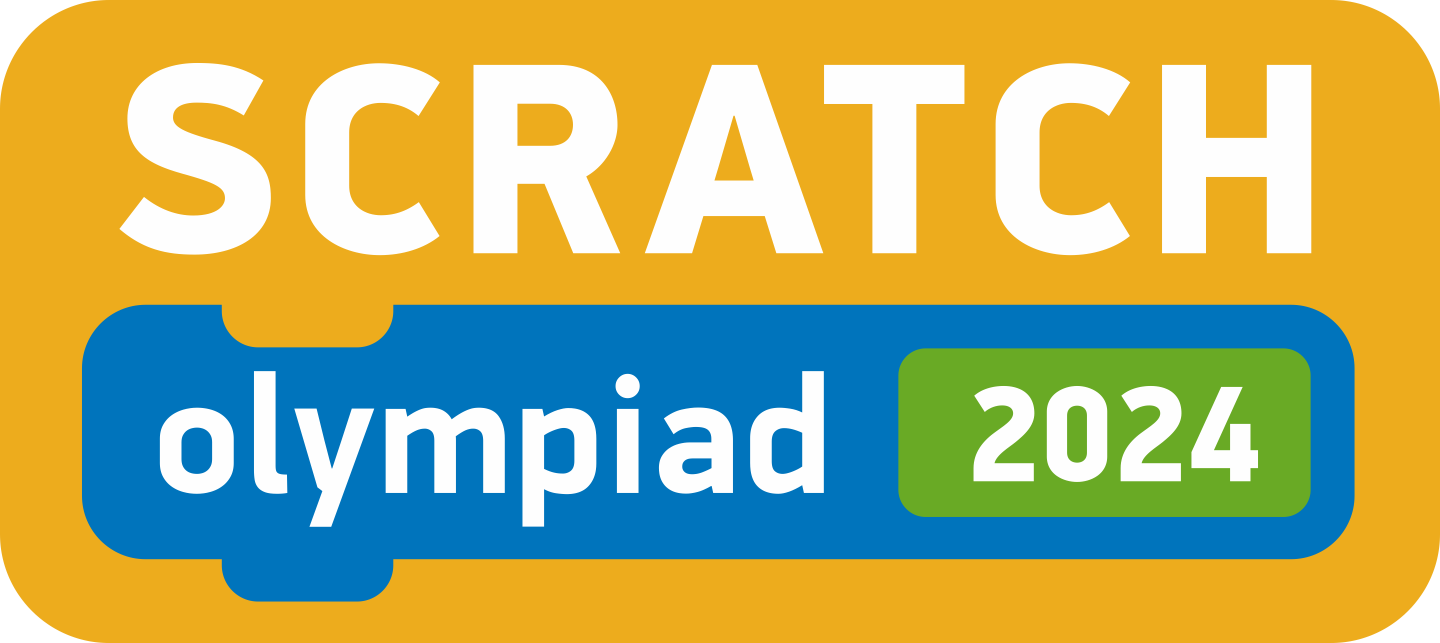
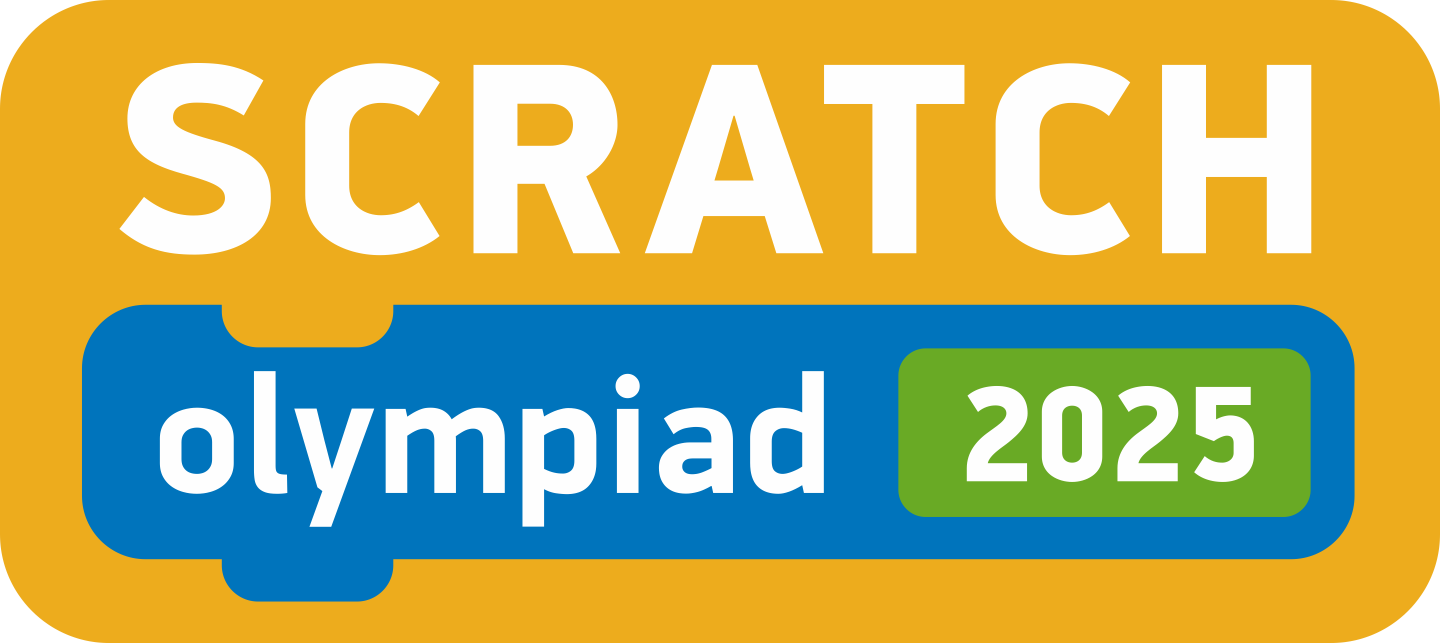
Certificate: The design has been updated to match the year 2025

Changed region(s): [[0.6562, 0.591, 0.875, 0.7465]]

diff --git a/lms/templates/certificates/_accomplishment-rendering.html b/lms/templates/certificates/_accomplishment-rendering.html
@@ -37,7 +37,7 @@ course_mode_class = course_mode if course_mode else ''
                     </p>
                     <p style="margin-left: 28% !important; max-width: 69% !important; border-bottom: 2px dotted gray; margin-bottom: 30px !important;" class="accomplishment-summary copy copy-lead">&nbsp;</p>
 
-                    <p style="line-height: 0 !important; margin-bottom: 25px !important;" class="accomplishment-statement-detail copy copy-lead-middle">has successfully completed  Scratch Olympiad 2024 expert training course</p> 
+                    <p style="line-height: 0 !important; margin-bottom: 25px !important;" class="accomplishment-statement-detail copy copy-lead-middle">has successfully completed  Scratch Olympiad 2025 expert training course</p> 
                     % if certificate_data:
                         % for signatory in certificate_data.get('signatories', []):
                             % if signatory.get('signature_image_path'):
